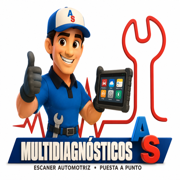
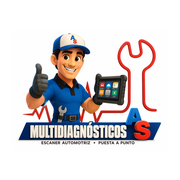
fix(pwa): ícono cuadrado sin distorsión + cache-busting
El logo (760x598) se distorsionaba al forzarlo a cuadrado. Ahora se padea a un
lienzo cuadrado blanco (proporción real preservada, sin estirar) con PIL, y se
versionan los íconos (?v=2) para que iOS suelte el ícono viejo cacheado.

diff --git a/index.html b/index.html
@@ -6,9 +6,9 @@
     <meta http-equiv="Pragma" content="no-cache" />
     <meta http-equiv="Expires" content="0" />
     <link rel="icon" type="image/x-icon" href="/favicon.ico?v=3" />
-    <link rel="icon" type="image/png" sizes="192x192" href="/icon-192.png" />
-    <link rel="icon" type="image/png" sizes="512x512" href="/icon-512.png" />
-    <link rel="apple-touch-icon" href="/apple-touch-icon.png" />
+    <link rel="icon" type="image/png" sizes="192x192" href="/icon-192.png?v=2" />
+    <link rel="icon" type="image/png" sizes="512x512" href="/icon-512.png?v=2" />
+    <link rel="apple-touch-icon" href="/apple-touch-icon.png?v=2" />
     <meta name="viewport" content="width=device-width, initial-scale=1.0" />
     <title>App Gestión MultiAS</title>
 
